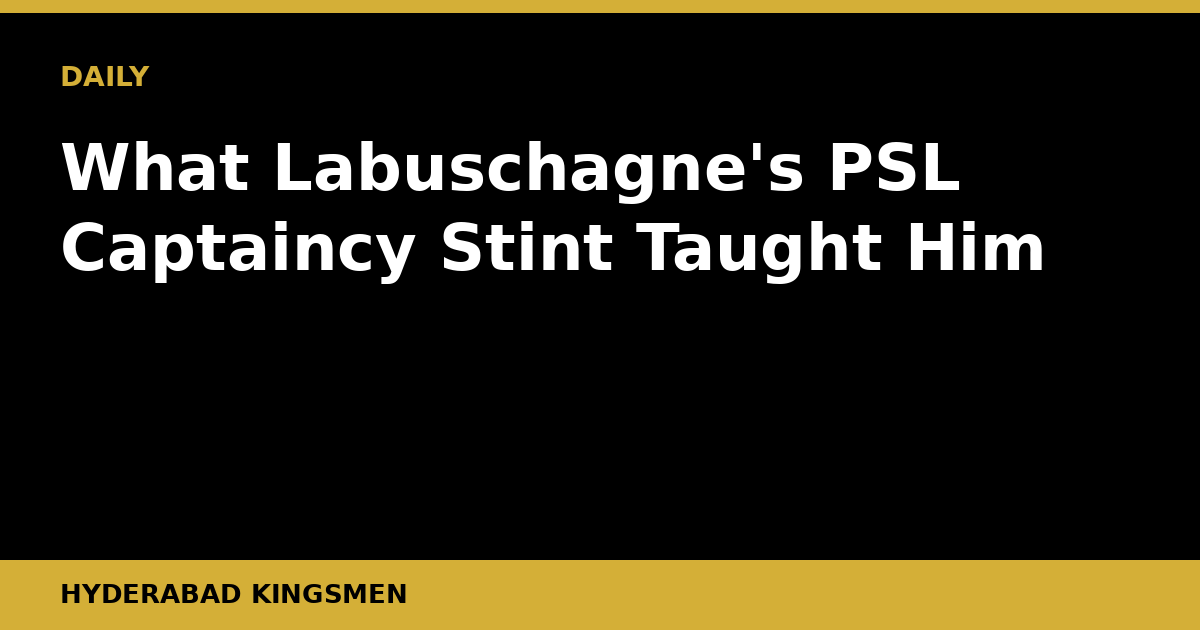
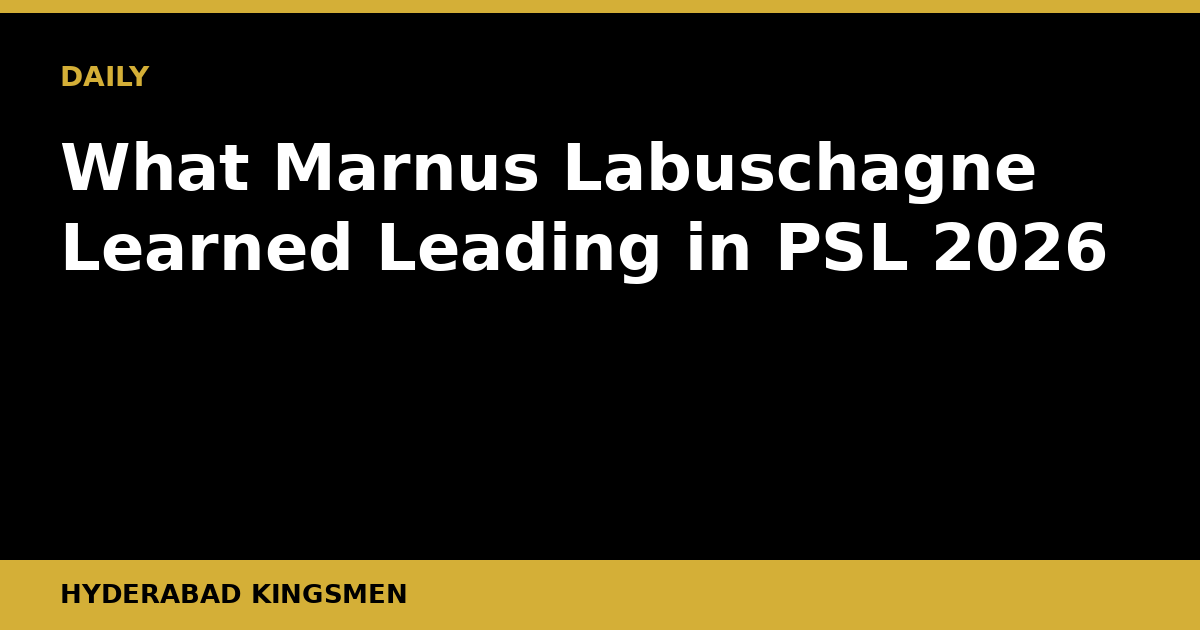
Daily post 2026-11-03

Changed region(s): [[0.0617, 0.2111, 0.925, 0.4524]]

diff --git a/content/posts/marnus-labuschagne-psl-2026-captaincy-lessons.md b/content/posts/marnus-labuschagne-psl-2026-captaincy-lessons.md
@@ -1,47 +1,41 @@
 ---
-title: "What Labuschagne's PSL Captaincy Stint Taught Him"
+title: "What Marnus Labuschagne Learned Leading in PSL 2026"
 slug: "marnus-labuschagne-psl-2026-captaincy-lessons"
-date: "2026-08-23T02:20:48+05:00"
+date: "2026-11-03T07:26:39+05:00"
 draft: false
-description: "Marnus Labuschagne took on a leadership role in PSL 2026. Here is what the experience may have added to his cricket and what Pakistan fans should note."
+description: "Marnus Labuschagne took on a PSL captaincy role in 2026 and left with more than runs. Here is what the experience may mean for his broader career."
 banner: "/banners/marnus-labuschagne-psl-2026-captaincy-lessons.png"
 kicker: "ANALYSIS"
 author: "Hyderabad Kingsmen"
 translationKey: "marnus-labuschagne-psl-2026-captaincy-lessons"
-tags: ["psl", "marnus-labuschagne", "psl-2026", "overseas-players", "t20-captaincy", "pakistan-cricket", "franchise-cricket"]
+tags: ["psl", "pakistan-cricket", "marnus-labuschagne", "t20-cricket", "cricket-captaincy", "franchise-cricket", "australia-cricket"]
 categories: ["Analysis"]
 ---
 
-Marnus Labuschagne arrived in Pakistan for PSL 2026 as a recognised Test batting talent. He left with something less quantifiable but arguably more valuable: a firsthand education in T20 captaincy under pressure, in conditions that are nothing like anything Australia produces.
+Marnus Labuschagne arrived in Pakistan for PSL 2026 carrying the reputation of one of Test cricket's most meticulous batters. He left carrying something else: the weight and education of franchise captaincy in one of the world's most pressure-cooked T20 competitions. For a player whose leadership credentials have been discussed quietly in Australian cricket circles, the PSL stint may prove to have been perfectly timed.
 
-## The Real Story Here
+## The Real Story Is Not the Runs
 
-PSL has quietly become one of the more useful finishing schools for overseas players willing to embrace the chaos of subcontinental T20 cricket. Labuschagne's captaincy stint is the latest chapter in that tradition, and it raises a question worth asking seriously: what does a technically orthodox, red-ball-first cricketer actually gain from leading a side through the frenetic rhythms of a Pakistani crowd, a turning surface, and opposition pace attacks that know these conditions better than almost anyone on earth?
+Labuschagne has never been short of technical skill or tactical curiosity. What the PSL environment tests, though, is something the county circuit or Shield cricket rarely replicates at the same intensity: decision-making in front of crowds who treat every game like a final, with a squad blended from four or five different cricketing cultures. Managing a dressing room that might contain a Pakistani veteran, a West Indian power-hitter, and an Afghan spinner, all within a two-week window, demands a kind of emotional intelligence that no coaching manual fully prepares you for.
 
-The answer, based on what the PSL has offered previous overseas captains, is quite a lot.
+Reports from inside the camp suggest Labuschagne leaned into the process rather than relying on instinct alone. He was seen in extended conversations with support staff between innings, adjusting field settings based on real-time data, and crucially, deferring to senior Pakistani players on ground conditions and pitch behaviour. That willingness to listen, rather than impose, is exactly the trait that separates competent captains from good ones.
 
-Leading in T20 cricket demands a different decision-making tempo than Test captaincy. Bowling changes happen every two or three overs. Field placements shift ball by ball. The captain has to process match-up data, pitch behaviour, dew forecasts, and a dressing room full of high-ego match-winners, all while the crowd at a venue like Gaddafi Stadium or the National Stadium is doing its best to make rational thought impossible. Labuschagne would have encountered every one of those variables.
+## Pressure-Cooker Conditions, Pakistan Style
 
-## What This Means for Labuschagne
+The PSL is not the IPL, and it is not the BBL. The stadiums in Karachi and Lahore generate a specific kind of noise that sits somewhere between a religious ceremony and a street argument, and it does not let up. For a visiting captain, reading that atmosphere and converting it into calm tactical thinking is genuinely difficult. Labuschagne, by all accounts, handled the environment with composure that surprised even those who had tracked his career closely.
 
-For Labuschagne personally, captaincy experience at franchise level adds a dimension that Australia's national selectors are bound to notice eventually. He is at an age and stage of career where leadership credentials matter. Australia's Test captaincy picture beyond Pat Cummins is not entirely settled for the long term, and any player who can demonstrate composure and tactical nous in an unfamiliar, high-pressure environment only strengthens their case.
+There were moments, as there always are in T20 cricket, when a bowling change went wrong or a batting order call backfired. The true measure was how he reset. Captaincy in a short franchise window does not allow for long recovery arcs. You lose a game on Tuesday and face the same opposition on Friday. How a captain responds in that gap, mentally and tactically, tells you more about his leadership ceiling than any post-match press conference ever could.
 
-More immediately, managing a PSL squad requires handling players with vastly different profiles, local Pakistani cricketers who understand these surfaces instinctively, Caribbean power-hitters, and fellow overseas stars with their own expectations. Navigating those personalities across a tournament of this intensity is a genuine test of man-management. It is not something you learn from reading a coaching manual.
+## What This Means for Labuschagne's Career Trajectory
 
-His batting, too, would have been tested differently than in a Test arena. PSL pitches in the early-season phase can be skiddy and uneven. Later in the tournament they slow up and turn. A technically sound player like Labuschagne has the tools to adjust, but adjusting while also captaining introduces a cognitive load that pure batting roles never carry. Getting those two responsibilities to coexist productively is a skill in itself.
+Australia's Test captaincy is not a vacancy at present, and the one-day picture remains similarly settled. But cricket careers move in unexpected directions, and Labuschagne's PSL experience has quietly added a dimension to his profile that was not there before. He has now captained under genuine pressure, in a foreign country, with a multilingual squad, in a format that brutally exposes hesitation.
 
-## What Pakistan Cricket Takes From This
+For Cricket Australia selectors or even state selectors considering Queensland's leadership future, this is relevant data. More immediately, Labuschagne returns to Australia having absorbed a style of cricket, specifically the subcontinent's interpretation of aggressive T20 batting and spin-heavy bowling attacks, that will only sharpen his reading of the game at international level.
 
-From a Pakistan cricket perspective, the significance of Labuschagne's stint runs slightly deeper than one overseas player's personal development.
-
-The PSL has always argued that it can attract and retain marquee overseas talent. When a player of Labuschagne's stature not only participates but takes on a leadership role, it signals that the league is considered a serious cricket environment, not just a pay cheque. That matters for the PCB's ongoing effort to position PSL alongside the IPL, Big Bash, and Caribbean Premier League in the global franchise hierarchy.
-
-For local players in the squad, being led by a cricketer with Labuschagne's Test pedigree also carries its own quiet value. The way he reads a game, prepares for opponents, and carries himself under pressure are things younger Pakistani cricketers absorb simply by sharing a dressing room. It is an informal coaching effect that no PSL press release will ever quantify.
-
-There is also a broader point about what overseas captains reveal about Pakistani conditions to the global cricket conversation. When Labuschagne goes back to Australia and speaks about leading in PSL, that is effectively organic promotion for the league and for the country as a cricket destination.
+There is also a personal dimension. Labuschagne has spoken in the past about his desire to grow as a complete cricketer, not simply as a technically gifted accumulator. A captaincy stint in the PSL is the kind of challenge that either confirms a player's limitations or expands them. The early indication is that it did the latter.
 
 ## What to Watch Next
 
-The things worth tracking from here are straightforward. Does Labuschagne carry any visible tactical evolution into Australia's next red-ball or white-ball cycle? Does the franchise he captained back that experience with a return invitation in PSL 2027, possibly with greater resources and a stronger squad around him? And does any PSL team, not necessarily the same one, decide that giving an experienced overseas Test cricketer the captaincy again is worth the gamble?
+The immediate question is how Labuschagne's PSL experience translates when Australia next tours the subcontinent. Reading spin, understanding different pitch behaviours across Pakistan and India, and knowing how local support staff think, these are the practical dividends of a PSL campaign. Watch whether his decision-making in the field carries a new layer of authority, and whether his batting against spin shows the kind of adaptations that only come from prolonged immersion.
 
-Labuschagne's stint will not reshape PSL or Australian cricket overnight. But the best education rarely announces itself loudly. It shows up later, in a decision made under pressure that happens to be exactly right.
+From a PSL perspective, the more interesting question is whether Labuschagne or any future overseas captain of his profile returns for another season. Franchise cricket increasingly values overseas players who do more than provide runs or wickets. The thinking captain, willing to absorb and adapt, is a rare commodity. PSL franchises would do well to note what they may have helped create.
